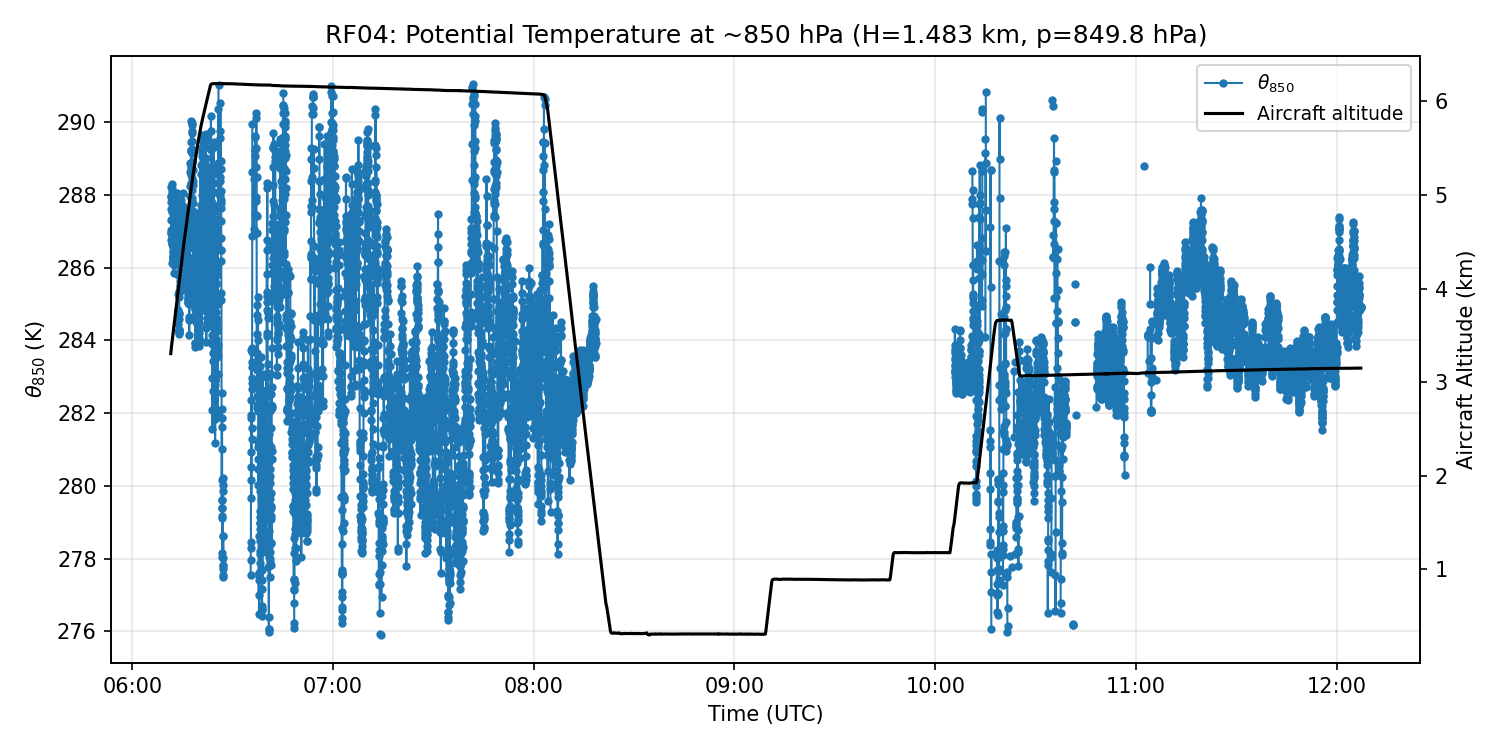
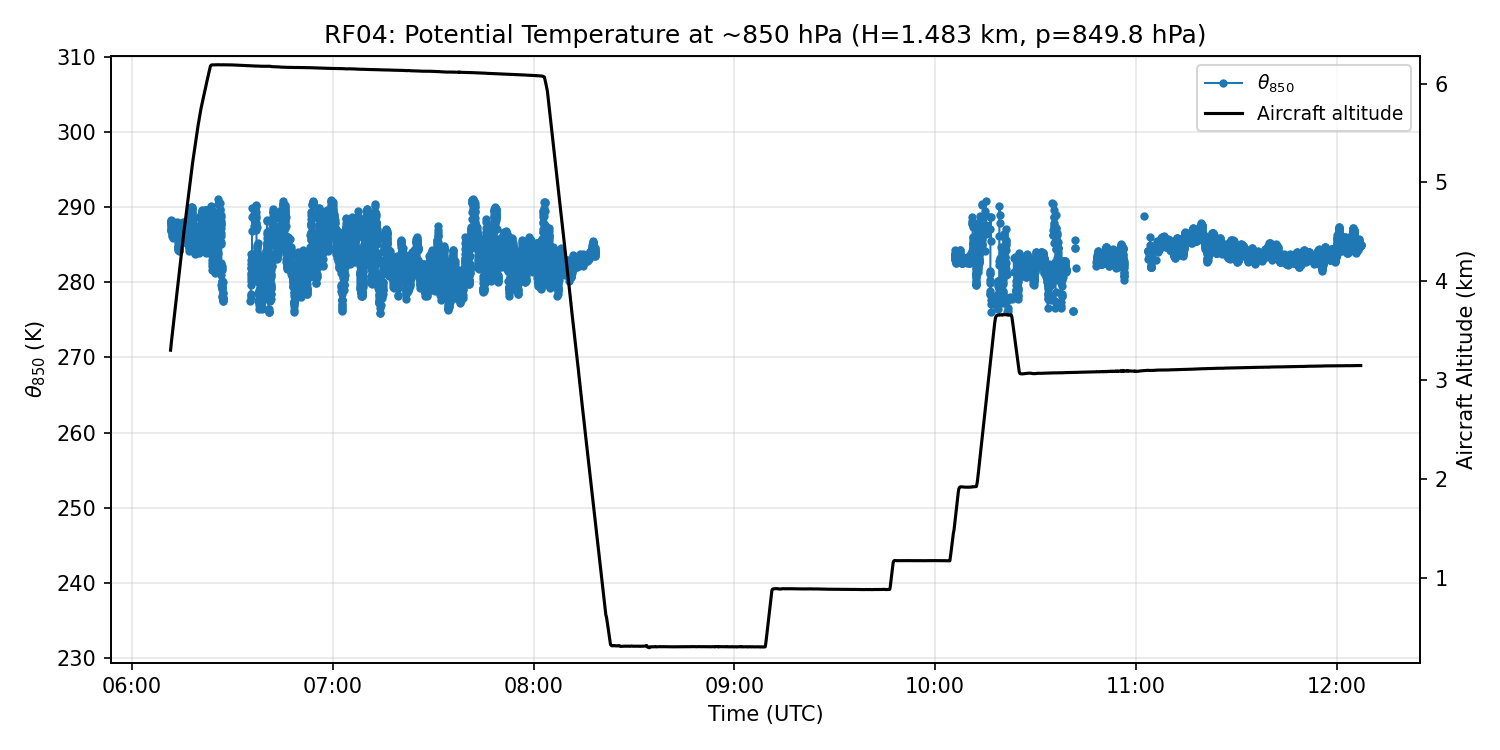
marli consistent scaling

diff --git a/src/638-021/temperature_contour.py b/src/638-021/temperature_contour.py
@@ -14,7 +14,7 @@ ALTITUDE = _vars["altitude"]
 TIME = _vars["time"]
 
 
-def plot_temperature_contour(flight: str) -> str:
+def load_contour_data(flight: str) -> dict:
     filenames = MARLI_FILES[flight]
 
     # use the first file's height grid as reference
@@ -35,21 +35,31 @@ def plot_temperature_contour(flight: str) -> str:
             if h_file.shape[0] == H.shape[0]:
                 all_T.append(t_data)
             else:
-                # interpolate onto the reference H grid
                 t_interp = np.array(
                     [np.interp(H, h_file, t_data[i]) for i in range(t_data.shape[0])]
                 )
                 all_T.append(t_interp)
 
-    time = np.concatenate(all_time)
-    T = np.concatenate(all_T, axis=0)
-    alt = np.concatenate(all_alt)
+    T = mask_temperature_outliers(np.concatenate(all_T, axis=0))
 
-    # mask fill values and per-level MAD outliers
-    T = mask_temperature_outliers(T)
+    return {
+        "H": H,
+        "time": np.concatenate(all_time),
+        "T": T,
+        "alt": np.concatenate(all_alt),
+    }
+
+
+def plot_temperature_contour(flight: str, data: dict, vmin: float, vmax: float) -> str:
+    H = data["H"]
+    time = data["time"]
+    T = data["T"]
+    alt = data["alt"]
 
     fig, ax = plt.subplots(figsize=(12, 6))
-    cf = ax.pcolormesh(time, H, T.T, shading="auto", cmap="RdYlBu_r")
+    cf = ax.pcolormesh(
+        time, H, T.T, shading="auto", cmap="RdYlBu_r", vmin=vmin, vmax=vmax
+    )
     fig.colorbar(cf, ax=ax, label="Temperature (°C)")
 
     ax.xaxis.set_major_formatter(
@@ -83,8 +93,19 @@ def plot_temperature_contour(flight: str) -> str:
 
 
 def main():
-    for flight in MARLI_FILES:
-        path = plot_temperature_contour(flight)
+    flights = list(MARLI_FILES.keys())
+
+    # load all data and find global temperature range
+    all_data = {}
+    for flight in flights:
+        all_data[flight] = load_contour_data(flight)
+
+    vmin = min(np.nanmin(d["T"]) for d in all_data.values())
+    vmax = max(np.nanmax(d["T"]) for d in all_data.values())
+
+    # plot with fixed color range
+    for flight in flights:
+        path = plot_temperature_contour(flight, all_data[flight], vmin, vmax)
         print(f"{flight} -> {path}")
 
 

diff --git a/src/638-021/potential_temperature.py b/src/638-021/potential_temperature.py
@@ -129,7 +129,7 @@ def compute_theta_850(flight: str) -> dict:
     }
 
 
-def plot_theta_850(flight: str, result: dict) -> str:
+def plot_theta_850(flight: str, result: dict, theta_lim: tuple, alt_lim: tuple) -> str:
     os.makedirs(PLOTS_DIR, exist_ok=True)
     out_path = os.path.join(PLOTS_DIR, f"{flight.lower()}_theta850.png")
 
@@ -144,10 +144,12 @@ def plot_theta_850(flight: str, result: dict) -> str:
     )
     ax.set_xlabel("Time (UTC)")
     ax.set_ylabel("$\\theta_{850}$ (K)")
+    ax.set_ylim(theta_lim)
 
     ax2 = ax.twinx()
     ax2.plot(time, alt, color="black", linewidth=1.5, label="Aircraft altitude")
     ax2.set_ylabel("Aircraft Altitude (km)")
+    ax2.set_ylim(alt_lim)
 
     lines, labels = ax.get_legend_handles_labels()
     lines2, labels2 = ax2.get_legend_handles_labels()
@@ -166,13 +168,24 @@ def plot_theta_850(flight: str, result: dict) -> str:
 
 
 def main():
-    flights = MARLI_FILES.keys()
+    flights = list(MARLI_FILES.keys())
 
+    # compute all results and find global ranges
+    results = {}
     for flight in flights:
-        result = compute_theta_850(flight)
+        results[flight] = compute_theta_850(flight)
+
+    all_theta = np.concatenate([r["theta_850"] for r in results.values()])
+    all_alt = np.concatenate([r["altitude"] for r in results.values()])
+    theta_lim = (np.nanmin(all_theta), np.nanmax(all_theta))
+    alt_lim = (np.nanmin(all_alt), np.nanmax(all_alt))
+
+    # plot with fixed ranges
+    for flight in flights:
+        result = results[flight]
         valid = np.count_nonzero(~np.isnan(result["theta_850"]))
         total = len(result["theta_850"])
-        plot = plot_theta_850(flight, result)
+        plot = plot_theta_850(flight, result, theta_lim, alt_lim)
         print(
             f"{flight}: theta_850 at H={result['h_850']:.4f} km "
             f"(p={result['p_850']:.1f} hPa), "
